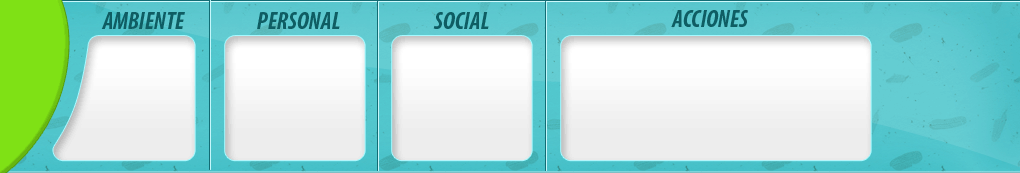
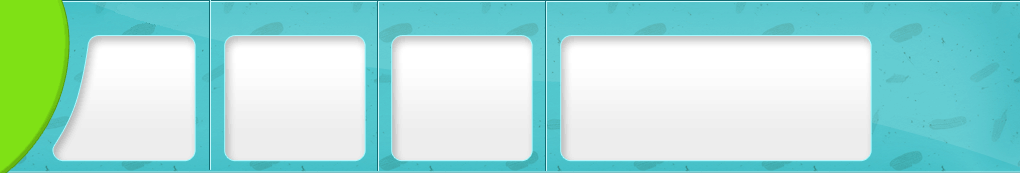
Texts in panel window now are added programmatically

diff --git a/Saludame.activity/menu_creator.py b/Saludame.activity/menu_creator.py
@@ -7,114 +7,114 @@ import utilities
 import gui
 
 items = [
-    # ("display_name", "path_to_icon.png", "action_id", "super_tooltip", [Children]),
+    # ("display_name", "action_id", "super_tooltip", [Children], place_restrictions, time_restrictions),
     
-    (_("Eat..."), "assets/icons/icon_parent.png", None, None, [
+    (_("Eat..."), None, None, [
         
-        (_("Comidas completas..."), "assets/icons/icon_parent.png", None, None, [
+        (_("Comidas completas..."), None, None, [
             
-            (_("Stew"), "assets/icons/icon.png", "eat_stew", "Eat a stew with \nfrench fries", None),
-            (_("Currasco"), "assets/icons/icon.png", "eat_churrasco", "Eat a churrasco with \nfrench fries", None),
-            #(_("Carpincho"), "assets/icons/icon.png", "eat_beaver", None),
-            (_("Milanesa"), "assets/icons/icon.png", "eat_milanesa", None, None),
-            (_("Torta frita"), "assets/icons/icon.png", "eat_torta_frita", None, None),
-            (_("Ensalada"), "assets/icons/icon.png", "salad", None, None),
-            (_("Pascualina"), "assets/icons/icon.png", "pascualina", None, None),
-            #(_("Tortilla de verdura"), "assets/icons/icon.png", "tortilla_verdura", None),
+            (_("Stew"), "eat_stew", "Eat a stew with \nfrench fries", None),
+            (_("Currasco"), "eat_churrasco", "Eat a churrasco with \nfrench fries", None),
+            #(_("Carpincho"), "eat_beaver", None),
+            (_("Milanesa"), "eat_milanesa", None, None),
+            (_("Torta frita"), "eat_torta_frita", None, None),
+            (_("Ensalada"), "salad", None, None),
+            (_("Pascualina"), "pascualina", None, None),
+            #(_("Tortilla de verdura"), "tortilla_verdura", None),
             
         ]),
         
-        (_("Fruta..."), "assets/icons/icon_parent.png", None, None, [
+        (_("Fruta..."), None, None, [
             
-            (_("Manzana"), "assets/icons/icon.png", "eat_apple", None, None),
-            (_("Naranja"), "assets/icons/icon.png", "eat_orange", None, None),
+            (_("Manzana"), "eat_apple", None, None),
+            (_("Naranja"), "eat_orange", None, None),
 
-            (_("Banana"), "assets/icons/icon.png", "eat_banana", None, None),
-            (_("Kiwi"), "assets/icons/icon.png", "eat_kiwi", None, None),
+            (_("Banana"), "eat_banana", None, None),
+            (_("Kiwi"), "eat_kiwi", None, None),
             
         ]),
         
-        (_("Desayuno y merienda..."), "assets/icons/icon_parent.png", None, None, [
+        (_("Desayuno y merienda..."), None, None, [
             
-            (_("Tostadas con membrillo"), "assets/icons/icon.png", "tostadas_membrillo", None, None),
-            (_("Queso"), "assets/icons/icon.png", "tostadas_queso", None, None),
-            (_("Galletitas saladas"), "assets/icons/icon.png", "galletitas_saladas", None, None),
-            (_("Galletitas dulces"), "assets/icons/icon.png", "galletitas_dulces", None, None),
-            (_("Galletitas con dulce de leche"), "assets/icons/icon.png", "galletitas_dulce_leche", None, None),
-            (_("Leche chocolatada"), "assets/icons/icon.png", "leche_chocolatada", None, None),
-            (_("Café con leche"), "assets/icons/icon.png", "leche_cafe", None, None),
-            (_("Leche"), "assets/icons/icon.png", "leche", None, None),
-            (_("Leche con cereales"), "assets/icons/icon.png", "leche_cereales", None, None)],
+            (_("Tostadas con membrillo"), "tostadas_membrillo", None, None),
+            (_("Queso"), "tostadas_queso", None, None),
+            (_("Galletitas saladas"), "galletitas_saladas", None, None),
+            (_("Galletitas dulces"), "galletitas_dulces", None, None),
+            (_("Galletitas con dulce de leche"), "galletitas_dulce_leche", None, None),
+            (_("Leche chocolatada"), "leche_chocolatada", None, None),
+            (_("Café con leche"), "leche_cafe", None, None),
+            (_("Leche"), "leche", None, None),
+            (_("Leche con cereales"), "leche_cereales", None, None)],
             ["schoolyard", "home"], ["morning", "afternoon"]
         ),
         
-        (_("Líquidos..."), "assets/icons/icon_parent.png", None, None, [
+        (_("Líquidos..."), None, None, [
             
-            (_("Agua"), "assets/icons/icon.png", "agua", None, None),
-            (_("Limonada"), "assets/icons/icon.png", "limonada", None, None),
-            (_("Jugo de naranja"), "assets/icons/icon.png", "jugo_naranja", None, None),
-            (_("Jugo de peras"), "assets/icons/icon.png", "jugo_peras", None, None),
-            (_("Jugo de zanahorias"), "assets/icons/icon.png", "jugo_zanahorias", None, None),
+            (_("Agua"), "agua", None, None),
+            (_("Limonada"), "limonada", None, None),
+            (_("Jugo de naranja"), "jugo_naranja", None, None),
+            (_("Jugo de peras"), "jugo_peras", None, None),
+            (_("Jugo de zanahorias"), "jugo_zanahorias", None, None),
             
         ]),
         
     ]),
     
-    (_("Deportes..."), "assets/icons/icon_parent.png", None, None, [
-        (_("Run"), "assets/icons/icon.png", "sport_run", None, None),
-        (_("Jump the rope"), "assets/icons/icon.png", "sport_jump", None, None),
-        (_("Play footbal"), "assets/icons/icon.png", "sport_football", None, None),
+    (_("Deportes..."), None, None, [
+        (_("Run"), "sport_run", None, None),
+        (_("Jump the rope"), "sport_jump", None, None),
+        (_("Play footbal"), "sport_football", None, None),
     ]),
     
-    (_("Tiempo libre..."), "assets/icons/icon_parent.png", None, None, [
-        (_("Go to sleep"), "assets/icons/icon.png", "sp_sleep", None, None),
-        (_("Talk with a friend"), "assets/icons/icon.png", "sp_talk", None, None),
-        (_("Do homework"), "assets/icons/icon.png", "sp_study", None, None),
-        (_("Clean up the bedroom"), "assets/icons/icon.png", "sp_clean", None, None),
-        (_("Cocinar"), "assets/icons/icon.png", "sp_cook", None, None),
-        (_("Huerta..."), "assets/icons/icon_parent.png", None, None, [
-            (_("Arar"), "assets/icons/icon.png", "sp_plow", None, None),
-            (_("Cosechar"), "assets/icons/icon.png", "sp_harvest", None, None),
-            (_("Regar"), "assets/icons/icon.png", "sp_irrigate", None, None),
-            (_("Sembrar"), "assets/icons/icon.png", "sp_sow", None, None),
-            (_("Limpiar"), "assets/icons/icon.png", "sp_clean_earth", None, None),
+    (_("Tiempo libre..."), None, None, [
+        (_("Go to sleep"), "sp_sleep", None, None),
+        (_("Talk with a friend"), "sp_talk", None, None),
+        (_("Do homework"), "sp_study", None, None),
+        (_("Clean up the bedroom"), "sp_clean", None, None),
+        (_("Cocinar"), "sp_cook", None, None),
+        (_("Huerta..."), None, None, [
+            (_("Arar"), "sp_plow", None, None),
+            (_("Cosechar"), "sp_harvest", None, None),
+            (_("Regar"), "sp_irrigate", None, None),
+            (_("Sembrar"), "sp_sow", None, None),
+            (_("Limpiar"), "sp_clean_earth", None, None),
         ]),
-        (_("Diversión..."), "assets/icons/icon_parent.png", None, None, [
-            (_("Locuras"), "assets/icons/icon.png", "crazy", None, None),
-            (_("Bailar"), "assets/icons/icon.png", "dance", None, None),
-            (_("Escondida"), "assets/icons/icon.png", "hidenseek", None, None),
-            (_("Jugar XO"), "assets/icons/icon.png", "playXO", None, None),
-            (_("Leer"), "assets/icons/icon.png", "read", None, None),
-            (_("Cantar"), "assets/icons/icon.png", "sing", None, None),
+        (_("Diversión..."), None, None, [
+            (_("Locuras"), "crazy", None, None),
+            (_("Bailar"), "dance", None, None),
+            (_("Escondida"), "hidenseek", None, None),
+            (_("Jugar XO"), "playXO", None, None),
+            (_("Leer"), "read", None, None),
+            (_("Cantar"), "sing", None, None),
         ]),
         
     ]),
     
-    (_("Ir a..."), "assets/icons/icon_parent.png", None, None, [
-       (_("Schoolyard"), "assets/icons/icon.png", "goto_schoolyard", None, None),
-       (_("Country"), "assets/icons/icon.png", "goto_country", None, None),
-       (_("Classroom"), "assets/icons/icon.png", "goto_classroom", None, None),
-       (_("Square"), "assets/icons/icon.png", "goto_square", None, None),
-       (_("Home..."), "assets/icons/icon_parent.png", None, None, [
-            (_("Living room"), "assets/icons/icon.png", "goto_living", None, None),
-            (_("Bedroom"), "assets/icons/icon.png", "goto_bedroom", None, None),
-            (_("Kitchen"), "assets/icons/icon.png", "goto_kitchen", None, None),
+    (_("Ir a..."), None, None, [
+       (_("Schoolyard"), "goto_schoolyard", None, None),
+       (_("Country"), "goto_country", None, None),
+       (_("Classroom"), "goto_classroom", None, None),
+       (_("Square"), "goto_square", None, None),
+       (_("Home..."), None, None, [
+            (_("Living room"), "goto_living", None, None),
+            (_("Bedroom"), "goto_bedroom", None, None),
+            (_("Kitchen"), "goto_kitchen", None, None),
         ])
    ]),
    
-    (_("Cambiar de ropa"), "assets/icons/icon_parent.png", None, None, [
-        (_("School"), "assets/icons/icon.png", "change_school_clothes", None, None),
-        (_("Sunny"), "assets/icons/icon.png", "change_sunny_clothes", None, None),
-        (_("Rainy"), "assets/icons/icon.png", "change_rainy_clothes", None, None),
+    (_("Cambiar de ropa..."), None, None, [
+        (_("School"), "change_school_clothes", None, None),
+        (_("Sunny"), "change_sunny_clothes", None, None),
+        (_("Rainy"), "change_rainy_clothes", None, None),
     ]),
    
-   (_("Higiene..."), "assets/icons/icon_parent.png", None, None, [
-       (_("Bañarse"), "assets/icons/icon.png", "shower", None, None),
-       (_("Lavarse los dientes"), "assets/icons/icon.png", "brush_teeth", None, None),
-       (_("Lavarse las manos"), "assets/icons/icon.png", "wash_hands", None, None),
-       (_("Ir al baño"), "assets/icons/icon.png", "toilet", None, None),
-       (_("Ir al Dentista"), "assets/icons/icon.png", "dentist", None, None),
-       (_("Ir al Doctor"), "assets/icons/icon.png", "doctor", None, None),
+   (_("Higiene..."), None, None, [
+       (_("Bañarse"), "shower", None, None),
+       (_("Cepillarse los dientes"), "brush_teeth", None, None),
+       (_("Lavarse las manos"), "wash_hands", None, None),
+       (_("Ir al baño"), "toilet", None, None),
+       (_("Ir al Dentista"), "dentist", None, None),
+       (_("Ir al Doctor"), "doctor", None, None),
    ]),
    
 ]
@@ -133,16 +133,16 @@ def load_menu(game_manager, center, container, windows_controller):
     
 
 def create_item(item_tuple, a_menu, container, font):
-    if item_tuple[4] != None:
-        subitems = [create_item(sub_item, a_menu, container, font) for sub_item in item_tuple[4]]
+    if item_tuple[3] != None:
+        subitems = [create_item(sub_item, a_menu, container, font) for sub_item in item_tuple[3]]
     else:
         subitems = []
     lenght = len(item_tuple)
     item = None
-    if lenght == 5:
-        item = menu.Item(container, MENU_FRAME_RATE, item_tuple[0], item_tuple[1], item_tuple[2], item_tuple[3], subitems, a_menu, font)
-    elif lenght == 6: # the item has place restrictions
-        item = menu.Item(container, MENU_FRAME_RATE, item_tuple[0], item_tuple[1], item_tuple[2], item_tuple[3], subitems, a_menu, font, item_tuple[5])
-    elif lenght == 7: # the item has time restrictions
-        item = menu.Item(container, MENU_FRAME_RATE, item_tuple[0], item_tuple[1], item_tuple[2], item_tuple[3], subitems, a_menu, font, item_tuple[5], item_tuple[6])
+    if lenght == 4:
+        item = menu.Item(container, MENU_FRAME_RATE, item_tuple[0], "", item_tuple[1], item_tuple[2], subitems, a_menu, font)
+    elif lenght == 5: # the item has place restrictions
+        item = menu.Item(container, MENU_FRAME_RATE, item_tuple[0], "", item_tuple[1], item_tuple[2], subitems, a_menu, font, item_tuple[4])
+    elif lenght == 6: # the item has time restrictions
+        item = menu.Item(container, MENU_FRAME_RATE, item_tuple[0], "", item_tuple[1], item_tuple[2], subitems, a_menu, font, item_tuple[4], item_tuple[5])
     return item

diff --git a/Saludame.activity/panel_window.py b/Saludame.activity/panel_window.py
@@ -36,6 +36,20 @@ class PanelWindow(gui.Window):
         
         self.action_progress_bar = None
         
+        TEXT_COLOR = pygame.Color("#0f5e65")
+        
+        text = gui.Text(self.rect, 145, 22, 1, _("Clima"), 18, TEXT_COLOR, type="normal", alignment=gui.Text.ALIGN_CENTER, bold=True, italic=True)
+        self.add_child(text)
+        
+        text = gui.Text(self.rect, 300, 22, 1, _("Personal"), 18, TEXT_COLOR, type="normal", alignment=gui.Text.ALIGN_CENTER, bold=True, italic=True)
+        self.add_child(text)
+        
+        text = gui.Text(self.rect, 465, 22, 1, _("Social"), 18, TEXT_COLOR, type="normal", alignment=gui.Text.ALIGN_CENTER, bold=True, italic=True)
+        self.add_child(text)
+        
+        text = gui.Text(self.rect, 705, 22, 1, _("Acción"), 18, TEXT_COLOR, type="normal", alignment=gui.Text.ALIGN_CENTER, bold=True, italic=True)
+        self.add_child(text)
+        
         ### Events ###
         # Personal
         self.personal_window = PersonalWindow(self.rect, pygame.Rect((224, 35), (130, 110)), 1, self.windows_controller)
@@ -53,7 +67,7 @@ class PanelWindow(gui.Window):
         # Info
         info_button = gui.ImageButton(self.rect, pygame.Rect(953, 0, 1, 1), 1, "assets/layout/info.png", self._cb_button_click_stop_action)
         self.add_button(info_button)
-
+        
         # Environment
         self.weather_widget = None
         self.set_weather()

diff --git a/Saludame.activity/app_init.py b/Saludame.activity/app_init.py
@@ -233,7 +233,7 @@ class AppLoader:
         #Social events
         #(directory_path, person_path, name, description, appereance_probability, time_span, condicioned_bars, message, message_time_span)
         probability = [("b_teeth", "indirect", 50.0, 70.0), ("dulces", "direct", 75.0, 30.0)]
-        event = events.SocialEvent("assets/events/personal/headache", "assets/characters/mother.png", "p_caries", _("Prevenir caries"), 5.0, 15, probability, u"Deberías lavarte los \ndientes", None, 150)
+        event = events.SocialEvent("assets/events/personal/headache", "assets/characters/mother.png", "p_caries", _("Prevenir caries"), 5.0, 15, probability, u"Deberías cepillarte los \ndientes", None, 150)
         _events.append(event)
 
         probability = [("responsability", "indirect", 60.0, 70.0)]

diff --git a/Saludame.activity/status_bars_creator.py b/Saludame.activity/status_bars_creator.py
@@ -26,7 +26,7 @@ class BarsLoader:
         physica.children_list = physica_children_bar
         
         ### hygiene
-        hygiene_children_id = [("shower", _("Ducharse")), ("w_hands", _("Lavarse Manos")), ("b_teeth", _("Lavarse Dientes")), ("toilet", _(u"Ir al Baño"))]
+        hygiene_children_id = [("shower", _("Ducharse")), ("w_hands", _("Lavarse Manos")), ("b_teeth", _("Cepillarse Dientes")), ("toilet", _(u"Ir al Baño"))]
         hygiene = status_bars.StatusBar("hygiene", "Hygiene", self.overall_bar, [], hard_level[0], hard_level[1])
         hygiene_children_bar = [status_bars.StatusBar(id[0], id[1], hygiene, [], hard_level[0], hard_level[1]) for id in hygiene_children_id]
         hygiene.children_list = hygiene_children_bar

diff --git a/Saludame.activity/kid_window.py b/Saludame.activity/kid_window.py
@@ -16,12 +16,12 @@ class KidWindow(gui.Window):
         gui.Window.__init__(self, container, rect, frame_rate, windows_controller, "kid")
         self.set_bg_image(pygame.image.load(BACKGROUND_PATH).convert())
         
-        self.kid_rect = pygame.Rect((280, 70), (350, 480))
+        kid_rect = pygame.Rect((280, 70), (400, 500))
         self.mood = "normal"
         
         self.cha_loader = cha_loader
             
-        self.kid = animation.Kid(rect, self.kid_rect, 1, windows_controller, game_man, self.mood)
+        self.kid = animation.Kid(rect, kid_rect, 1, windows_controller, game_man, self.mood)
         self.add_child(self.kid)
         
         self.balloon = None

diff --git a/Saludame.activity/status_bars.py b/Saludame.activity/status_bars.py
@@ -166,7 +166,7 @@ class BarSection(gui.Window):
         #label_rect = pygame.Rect((0,0), label_render.get_size())
         #label_rect.right = self.rect.right - 8
         pos = self.rect.right - 8, 0
-        label_widget = gui.Text(self.rect, pos[0], pos[1], 1, self.name, 16, pygame.Color(TEXT_COLOR), gui.Text.ALIGN_RIGHT, True, True)
+        label_widget = gui.Text(self.rect, pos[0], pos[1], 1, self.name, 16, pygame.Color(TEXT_COLOR), "normal", gui.Text.ALIGN_RIGHT, True, True)
         
         # visuals
         self.root_bar_display = BarDisplay(BAR_HEIGHT, (size[0] - 2), (BAR_OFFSET_X, SECTION_TOP_PADDING), self.root_bar, ROOT_BAR_PARTITIONS)
